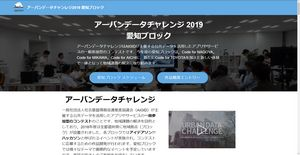
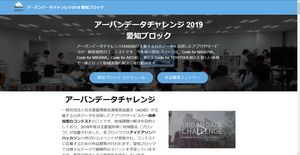
シビックパワーバトルの修正

Changed region(s): [[0.0, 0.0516, 0.99, 0.1032], [0.06, 0.0, 0.09, 0.0516]]

diff --git a/docs/udc/2019/index.html b/docs/udc/2019/index.html
@@ -59,7 +59,7 @@
     </nav>
 </section>
 
-<section class="engine"><a href="https://mobirise.info/b">how to create your own website for free</a></section><section class="header1 cid-r2738nDVzI" id="header1-1">
+<section class="engine"><a href="https://mobirise.info/g">how to build a website</a></section><section class="header1 cid-r2738nDVzI" id="header1-1">
 
     
 
@@ -539,7 +539,7 @@
                 
                 <p class="mbr-text pb-3 mbr-fonts-style display-5">開催日時：2019年12月14日（土）13:00～17:00&nbsp;<br>会場：ヤフー名古屋オフィス（JRセントラルタワーズ タワーズオフィス50階)）<br>主催：シビックパワーバトルどまんなか愛知大会実行委員会
 <br>共催：アーバンデータチャレンジ2019実行委員会<br>
-協賛：ヤフー(株)<br>協力：シビックパワーアライアンス実行委員会、ソフトバンク(株)、マスプロ電工(株)、JAあいち尾東(10/28時点)<br><a href="https://www.civicpowerbattle.org/cpbtokaidomannaka" target="_blank">https://www.civicpowerbattle.org/cpbtokaidomannaka</a><br><br>オープンデータを活用して，今まで埋もれていた「まちの魅力」を発掘することで、地域の魅力を発信することを目的としたイベントです。
+協賛：ヤフー(株)<br>協力：JAあいち尾東、春日井製菓(株)、ソフトバンク(株)、パナソニックエコシステムズ(株)、マスプロ電工(株)<br><a href="https://www.civicpowerbattle.org/cpbtokaidomannaka" target="_blank">https://www.civicpowerbattle.org/cpbtokaidomannaka</a><br><br>オープンデータを活用して，今まで埋もれていた「まちの魅力」を発掘することで、地域の魅力を発信することを目的としたイベントです。
 市民や団体、企業にくわえて行政が協力しあうことで、あらたな魅力発信の仕組みづくりに繋げます。<br></p>
                 
             </div>
@@ -893,7 +893,7 @@
             <div class="media-container-column col-lg-8" data-form-type="formoid">
                     <div data-form-alert="" hidden="">UDC愛知拠点・事務局にご連絡頂きありがとうございました．</div>
             
[2 lines of base64/hex data omitted]
                         <div class="row row-sm-offset">
                             <div class="col-md-4 multi-horizontal" data-for="name">
                                 <div class="form-group">
